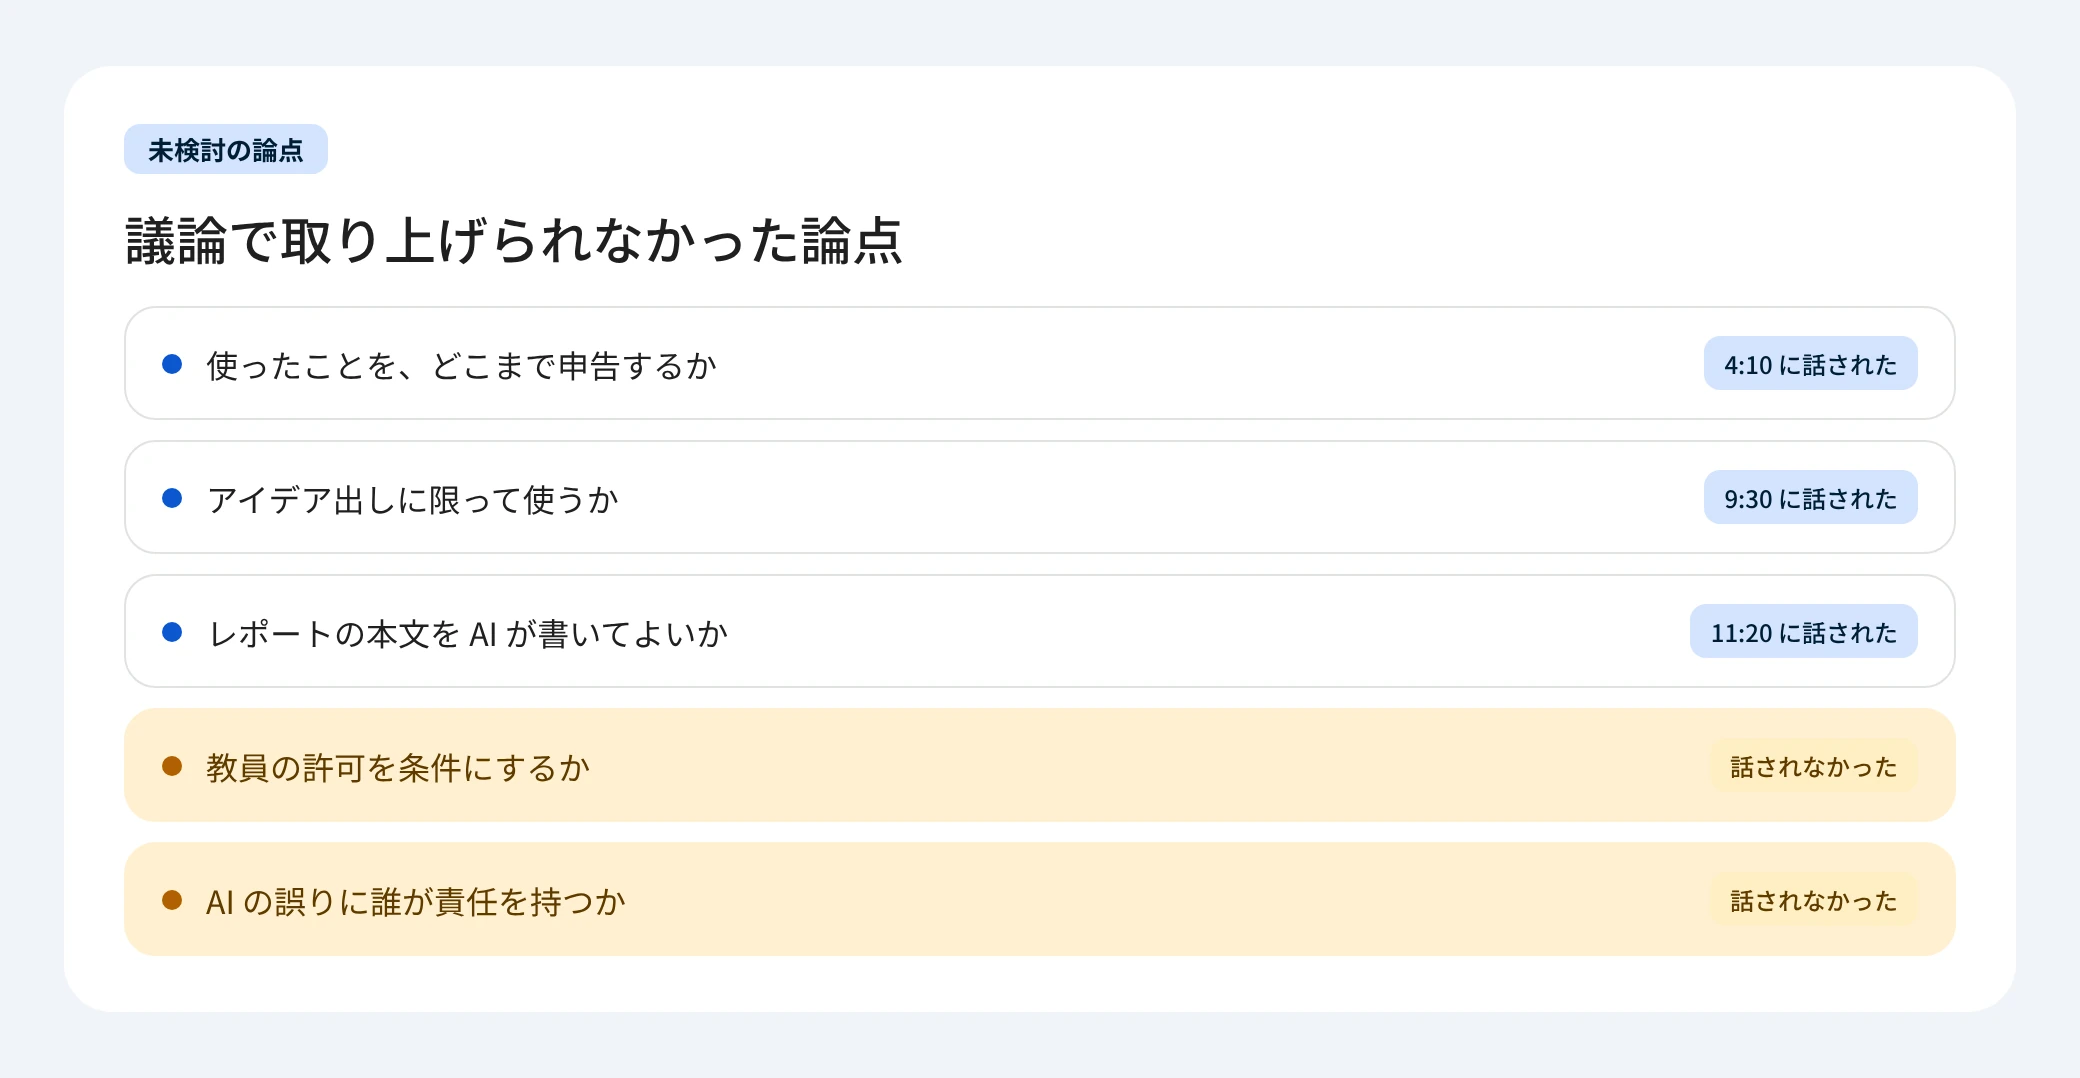
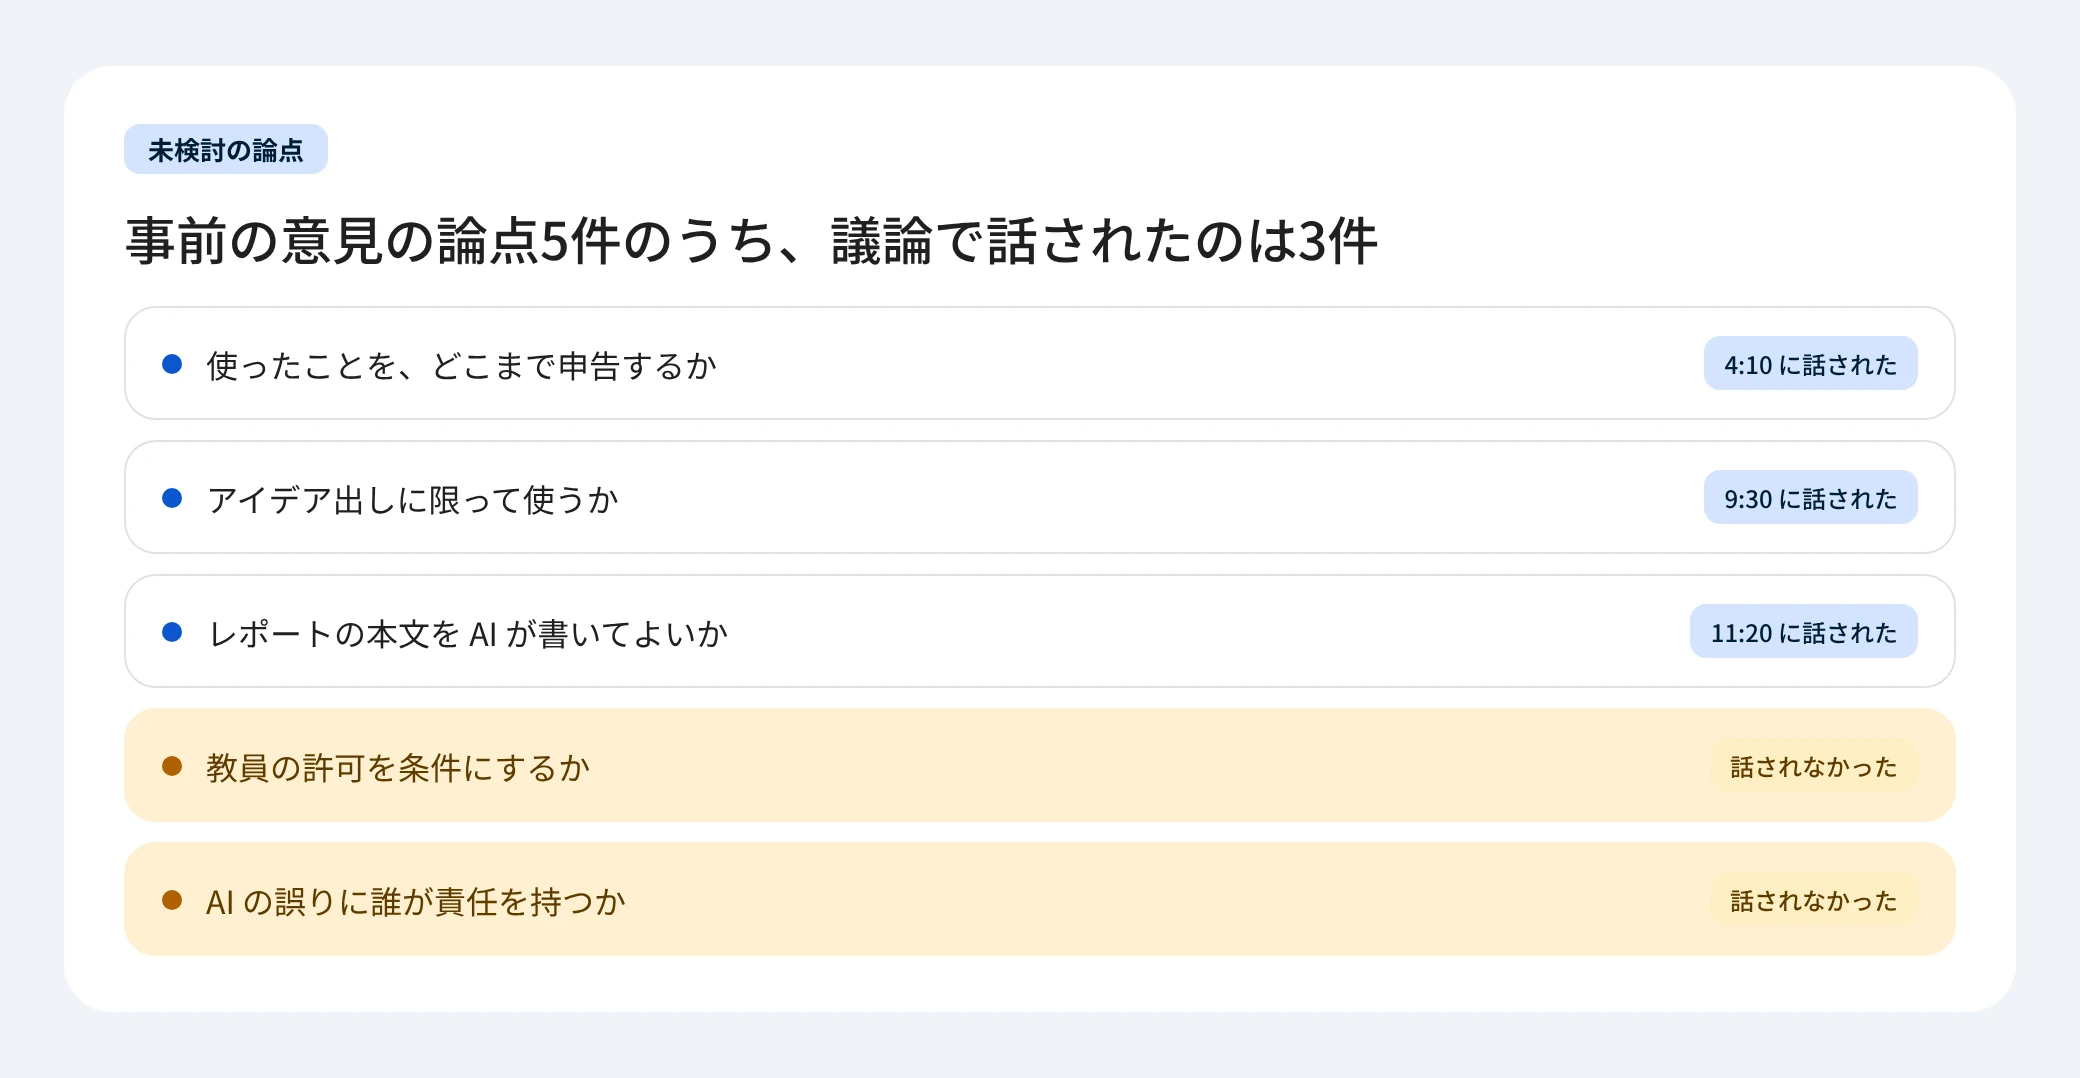
docs: 未検討の論点の図の見出しを、図の中身（話された論点と話されなかった論点）に合わせる
Claude-Session: https://claude.ai/code/session_01XeXc3hvd7jLnACQZdELSTM

Changed region(s): [[0.0625, 0.1837, 0.6562, 0.2449]]

diff --git a/README.md b/README.md
@@ -29,7 +29,7 @@ Topos（トポス）は、グループディスカッションで埋もれた考
 
 ### 2. 音声認識による未検討の論点の可視化
 
-![議論で取り上げられなかった論点](docs/images/feature-points.webp)
+![事前の意見の論点のうち、議論で話されたものと話されなかったもの](docs/images/feature-points.webp)
 
 ### 3. 事前の意見から結論への主張の変化の確認
 
